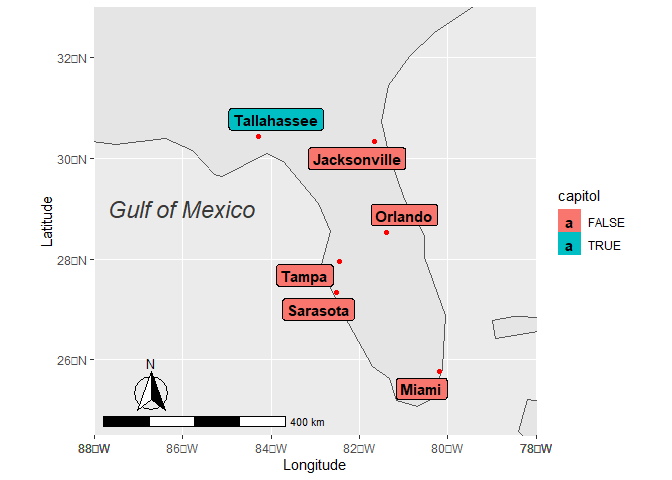
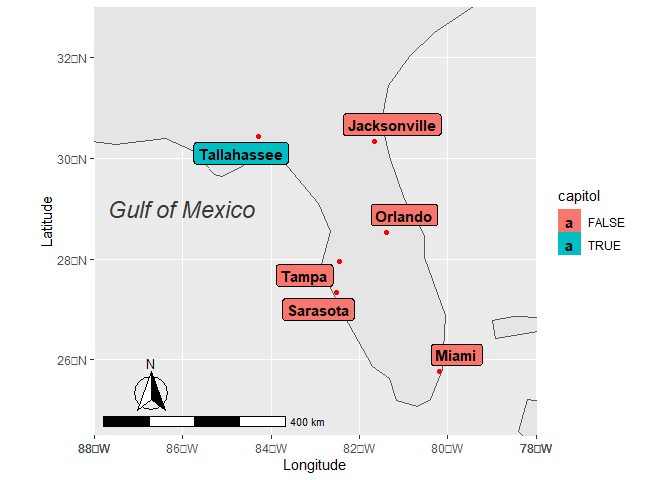
changed crs in Azimuth projection

Changed region(s): [[0.2812, 0.2188, 0.6562, 0.375], [0.5625, 0.7188, 0.7188, 0.8438]]

diff --git a/09 - Final project and more plots/README.md b/09 - Final project and more plots/README.md
@@ -108,7 +108,7 @@ Also more complex CRS projections are possible
 ``` r
 ggplot() +
   geom_sf(data = map_data, aes(fill=my_value)) +
-  coord_sf(crs = "+proj=laea +lat_0=52 +lon_0=10 +x_0=4321000 +y_0=3210000 +ellps=GRS80 +units=m +no_defs ")
+  coord_sf(crs = "+proj=laea +lat_0=52 +lon_0=10 +ellps=GRS80")
 ```
 
 ![](09_files/figure-gfm/unnamed-chunk-7-1.png)<!-- --> Next to these
